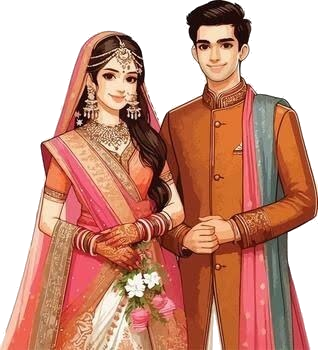
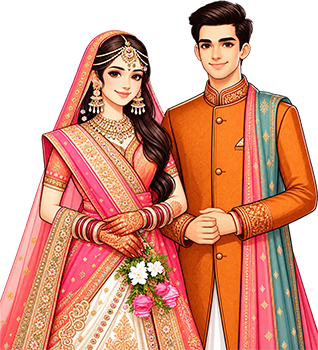
aa

diff --git a/src/components/CouplePortraitSection.jsx b/src/components/CouplePortraitSection.jsx
@@ -38,7 +38,7 @@ const CouplePortraitSection = () => {
             whileInView={{ opacity: 1, scale: 1, y: 0 }}
             viewport={{ once: true }}
             transition={{ duration: 0.8, delay: 0.2 }}
-            className="absolute bottom-[9%] sm:bottom-[11%] left-1/2 -translate-x-1/2 w-[72%] sm:w-[68%] max-w-[310px] z-10 flex items-end justify-center pointer-events-none"
+            className="absolute bottom-[7%] sm:bottom-[8%] left-1/2 -translate-x-1/2 w-[88%] sm:w-[84%] max-w-[380px] z-10 flex items-end justify-center pointer-events-none"
           >
             <img
               src="/assets/traditional-couple.png"
